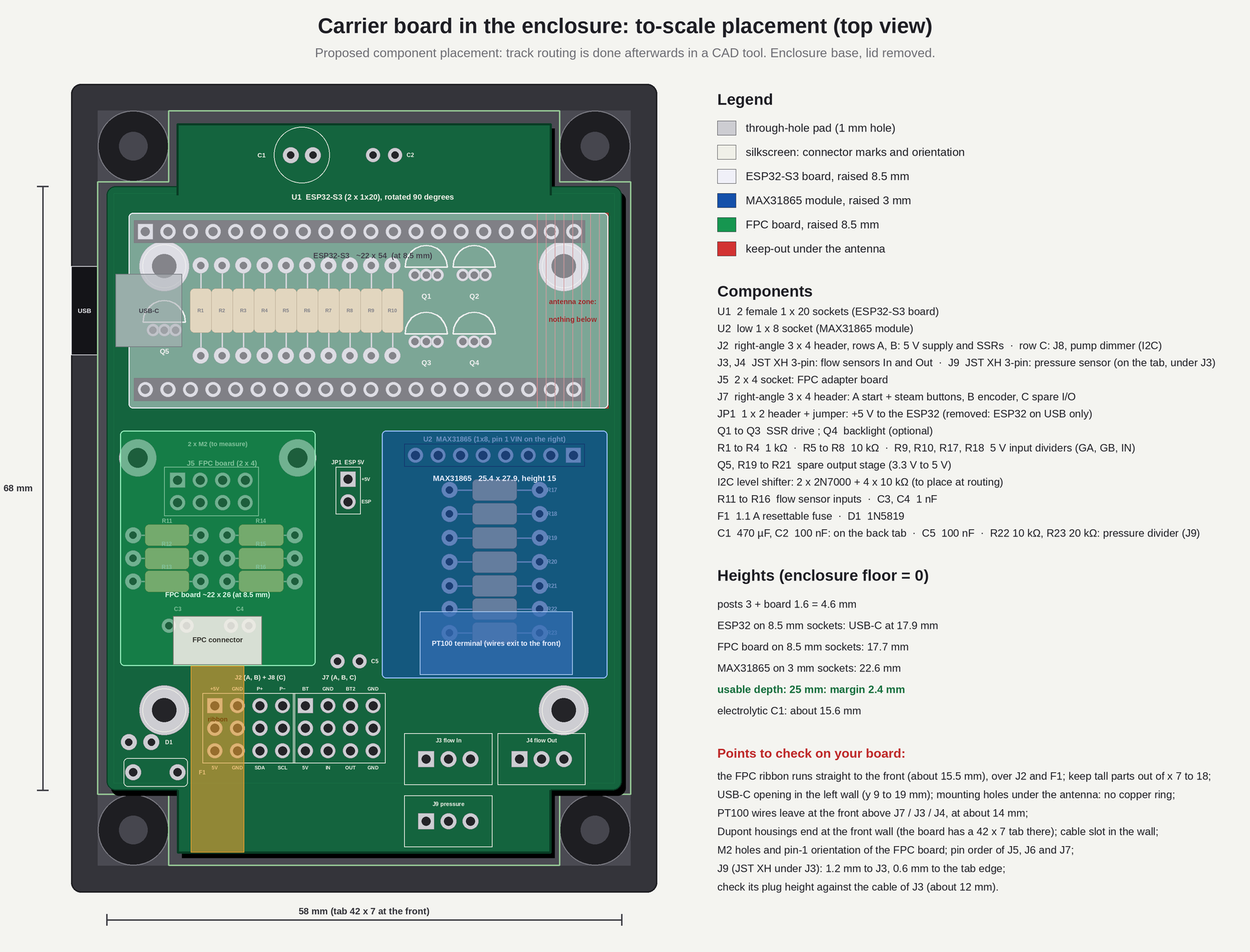
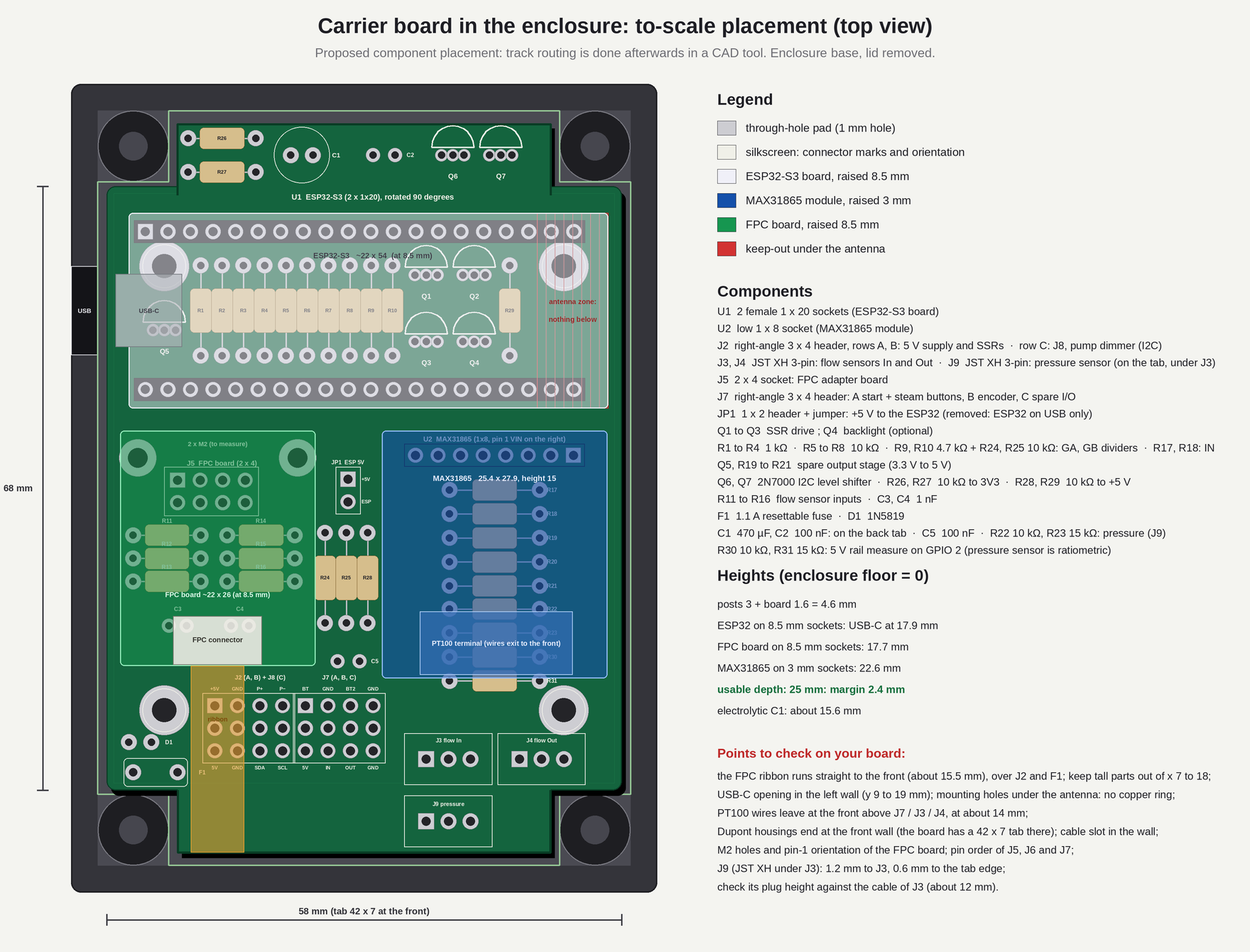
Review fixes: GA/GB divider resistors R24/R25, I2C shifter placed (Q6/Q7, R26-R29), pressure divider 10k/15k, 5 V rail measure on GPIO 2 (R30/R31), J2 marking
Claude-Session: https://claude.ai/code/session_012AnZeUFZeKvHXGUDRfJG7Q

diff --git a/tools/board_schematic.py b/tools/board_schematic.py
@@ -47,7 +47,7 @@ T(x0 + 370, 196, "row A: 5 V supply + pump SSR (ribbon 1)", F(14, True), RED, 'l
 T(x0 + 370, 242, "row B: boiler SSR + valve SSR (ribbon 2)", F(14, True), ORG, 'lm')
 T(x0 + 370, 288, "row C: J8 pump dimmer, RobotDyn (I2C)", F(14, True), VIO, 'lm')
 T(x0 + 370, 312, "a 2 x 4 housing can be plugged 180 degrees the wrong way:", F(13), GRY, 'lm')
-T(x0 + 370, 330, "mark it, or key the header", F(13), GRY, 'lm')
+T(x0 + 370, 330, "mark it (paint dot on +5 V): no keyed header on a 3-row strip", F(13), GRY, 'lm')
 
 head(60, 366, "J7: right-angle 3 x 4 male header")
 j7a = [("button", (90, 90, 96)), ("GND", DK), ("steam", (90, 90, 96)), ("GND", DK)]
@@ -95,7 +95,7 @@ gx = 860
 T(gx, 118, "ESP32-S3: pins used", F(22, True), INK, 'lm')
 rows = [("5V", "+5 V via JP1 (after diode and fuse)", RED), ("3V3", "display, I2C pull-ups (3.3 V side)", RED),
         ("GPIO 17", "pump SSR drive", BRN), ("GPIO 18", "boiler SSR drive", ORG), ("GPIO 21", "valve SSR drive", YEL),
-        ("GPIO 15", "flow In", BLU), ("GPIO 16", "flow Out", BLU), ("GPIO 1", "pressure sensor (ADC)", BLU),
+        ("GPIO 15", "flow In", BLU), ("GPIO 16", "flow Out", BLU), ("GPIO 1", "pressure sensor (ADC)", BLU), ("GPIO 2", "5 V rail measure (ADC)", RED),
         ("GPIO 4 / 5", "encoder A / B", GRN), ("GPIO 6 / 41", "start / steam buttons", (90, 90, 96)),
         ("GPIO 47 / 48", "dimmer I2C: SDA / SCL", VIO),
         ("GPIO 11 / 12 / 13", "SPI: MOSI / SCK / MISO", VIO), ("GPIO 10", "display CS", VIO), ("GPIO 9 / 8", "display DC / RST", VIO),
@@ -105,7 +105,7 @@ for i, (a, b, col) in enumerate(rows):
     RR(gx, y, gx + 180, y + 28, 5, fill=col, outline=(20, 20, 24), width=1)
     T(gx + 90, y + 14, a, F(14, True), (255, 255, 255))
     T(gx + 192, y + 14, b, F(15), INK, 'lm')
-T(gx, 786, "Avoided: 0, 3, 45, 46 (strapping), 19 and 20 (USB), 35 to 37 (PSRAM).", F(15), GRY, 'lm')
+T(gx, 806, "Avoided: 0, 3, 45, 46 (strapping), 19 and 20 (USB), 35 to 37 (PSRAM).", F(15), GRY, 'lm')
 
 # ================================================================ 2b. input circuits (chains)
 def box(x, y, w, h, label, fill=(250, 250, 240), col=INK, size=12):
@@ -125,11 +125,13 @@ def chain(x, y, title, src, res, end, shunts, col):
     for sx, lab in shunts:
         L([(x + sx, y), (x + sx, y)], col, 2)
         shunt(x + sx, y, lab)
-cy = 850
+cy = 866
 chain(gx, cy, "Encoder GA, GB, spare IN 38 (x3): 5 V to 3.3 V", "module out", "4.7 k", "GPIO", [(270, "10 k")], GRN)
-chain(gx, cy + 120, "Pressure input: 4.5 V to 3.0 V", "sensor", "10 k", "GPIO 1", [(250, "20 k"), (320, "100 nF")], BLU)
-T(gx, cy + 262, "Dimmer I2C (5 V module): 2 x 2N7000 level shifter, 10 k pull-ups to 3V3 and to +5 V", F(14, True), VIO, 'lm')
-T(gx, cy + 286, "(SDA = GPIO 47, SCL = GPIO 48, 100 kHz; the module ships in UART mode: switch it to I2C once)", F(13), GRY, 'lm')
+chain(gx, cy + 120, "Pressure input: 4.5 V to 2.7 V", "sensor", "10 k", "GPIO 1", [(250, "15 k"), (320, "100 nF")], BLU)
+chain(gx, cy + 240, "5 V rail measure (same ratio: pressure = signal / rail)", "+5 V rail", "10 k", "GPIO 2", [(250, "15 k")], RED)
+T(gx, cy + 352, "Dimmer I2C: Q6, Q7 2N7000 level shifter", F(14, True), VIO, 'lm')
+T(gx, cy + 374, "10 k pull-ups to 3V3 and to +5 V; SDA 47, SCL 48, 100 kHz", F(13), GRY, 'lm')
+T(gx, cy + 394, "ships in UART mode: switch it to I2C once", F(13), GRY, 'lm')
 
 # ================================================================ 3. circuits
 cx0 = 1370
@@ -168,7 +170,7 @@ L([(cx0 - 20, 500), (cx0 + 20, 500)], BRN, 3); T(cx0 - 28, 500, "GPIO", F(12, Tr
 L([(cx0 + 100, 500), (cx0 + 100, 540)], INK, 2)
 RR(cx0 + 88, 540, cx0 + 112, 575, 3, fill=(250, 250, 240), outline=INK, width=2); T(cx0 + 100, 557, "10k", F(11, True))
 L([(cx0 + 100, 575), (cx0 + 100, 590)], INK, 2); T(cx0 + 100, 604, "GND", F(12, True))
-T(cx0 + 20, 640, "2N2222A (TO-92): the SSR input receives almost the full 5 V", F(13), GRY, 'lm')
+T(cx0 + 20, 640, "2N2222A (TO-92): the SSR input receives about 4.4 V", F(13), GRY, 'lm')
 
 # flow input
 T(cx0, 700, "Flow sensor input (x2)", F(17, True), BLU, 'lm')
@@ -209,7 +211,7 @@ notes = [
     "JP1: fitted, the ESP32 takes its 5 V from the board; removed, from its USB port only (never fit it with USB plugged).",
     "The three voltage levels: +5 V board (after fuse and diode), 3.3 V from the ESP32-S3 board, common GND.",
     "The display module has its own backlight transistor: BLK is driven directly by GPIO 14 (stage Q4 optional).",
-    "No regulator on the board: the ESP32-S3 provides the 3.3 V, which now only feeds the display and the I2C pull-ups.",
+    "No regulator on the board: the 3.3 V (display, I2C pull-ups) comes from the ESP32-S3.",
     "The pump dimmer stays off the board on the mains side: only its 4-wire I2C cable comes to J8.",
     "All parts are through-hole (TO-92, axial resistors, radial capacitors, DO-41): ordinary soldering iron.",
     "On the board: a ground plane, no copper under the ESP32 antenna, 4 mounting holes (45 x 50 mm).",

diff --git a/tools/board_placement.py b/tools/board_placement.py
@@ -128,15 +128,21 @@ for i, name in enumerate(["R1", "R2", "R3", "R4", "R5", "R6", "R7", "R8", "R9", 
 # Q1..Q4: TO-92 bodies are 4.8 mm wide, so two rows of two (pitch 5.4 mm), clear of R10 and of the antenna zone
 for name, (qx, qy) in zip(["Q1", "Q2", "Q3", "Q4"], [(36.0, 10.0), (41.4, 10.0), (36.0, 17.5), (41.4, 17.5)]):
     to92(qx, qy, name)
+axial_v(45.4, 14.0, label="R29")                                # I2C pull-up to +5 V (SCL side), right of Q2 / Q4, clear of the antenna zone
 # spare I/O conditioning, flat resistors under the MAX31865 (3 mm clearance): R17 4.7 k + R18 10 k (input divider), R19 1 k base, R20 4.7 k pull-up to 5 V, R21 10 k base to GND
 for i, name in enumerate(["R17", "R18", "R19", "R20", "R21"]):
     axial(43.7, 34.2 + i * 2.7, pitch=10.16, label=None)
     text(d, X(49.6), Y(34.2 + i * 2.7), name, 8, SILK, True, 'lm')
 
-# pressure divider (J9 -> GPIO 1): R22 10 k (series) and R23 20 k (to GND) flat under the MAX31865, just below the spare-I/O resistors
+# pressure divider (J9 -> GPIO 1): R22 10 k (series) and R23 15 k (to GND) flat under the MAX31865, just below the spare-I/O resistors
 for i, name in enumerate(["R22", "R23"]):
     axial(43.7, 47.6 + i * 2.7, pitch=10.16, label=None)
     text(d, X(49.6), Y(47.6 + i * 2.7), name, 8, SILK, True, 'lm')
+
+# 5 V rail measure (GPIO 2), same 10 k / 15 k ratio as the pressure divider: R30 (series) and R31 (to GND), below R23
+for i, name in enumerate(["R30", "R31"]):
+    axial(43.7, 53.0 + i * 2.7, pitch=10.16, label=None)
+    text(d, X(49.6), Y(53.0 + i * 2.7), name, 8, SILK, True, 'lm')
 
 # keep-out under the antenna (right end of the ESP32 board)
 for k in range(0, 9):
@@ -207,8 +213,16 @@ tpad(2.5, 62.6, ring=1.8, drill=0.8); tpad(5.04, 62.6, ring=1.8, drill=0.8)
 text(d, X(6.6), Y(62.6), "D1", 8, SILK, True, 'lm')
 # C1 470 uF (radial 6.3 mm) and C2 100 nF, on the back tab (y -7 to 0), behind the ESP32
 circ(d, X(22.0), Y(-3.5), 3.15 * K, fill=None, outline=SILK + (255,), width=2)
-tpad(20.75, -3.5, ring=1.8, drill=0.8); tpad(23.25, -3.5, ring=1.8, drill=0.8); text(d, X(17.9), Y(-3.5), "C1", 9, SILK, True, 'rm')
+tpad(20.75, -3.5, ring=1.8, drill=0.8); tpad(23.25, -3.5, ring=1.8, drill=0.8); text(d, X(25.4), Y(-3.5), "C1", 9, SILK, True, 'lm')
 tpad(30.0, -3.5, ring=1.6, drill=0.8); tpad(32.5, -3.5, ring=1.6, drill=0.8); text(d, X(33.8), Y(-3.5), "C2", 8, SILK, True, 'lm')
+# corridor, below JP1: R24, R25 (10 k, GA / GB dividers to GND) and R28 (I2C pull-up to +5 V, SDA side), vertical
+for i, name in enumerate(["R24", "R25", "R28"]):
+    axial_v(24.6 + i * 2.4, 44.1, label=name)
+# back tab: I2C level shifter, Q6 / Q7 2N7000 (SDA / SCL) and R26 / R27 (10 k pull-ups to 3V3), left of C1
+for i, name in enumerate(["R26", "R27"]):
+    axial(13.0, -5.4 + i * 3.8, pitch=7.62, label=None)
+    text(d, X(13.0), Y(-5.4 + i * 3.8), name, 7, INK, True)
+to92(39.0, -3.5, "Q6"); to92(44.4, -3.5, "Q7")
 # C5 100 nF (pressure filter, taller than 3 mm so not under the MAX31865): in the corridor, below JP1
 tpad(26.0, 53.5, ring=1.6, drill=0.8); tpad(28.5, 53.5, ring=1.6, drill=0.8); text(d, X(29.8), Y(53.5), "C5", 8, SILK, True, 'lm')
 # JST XH x2: vertical headers, pins along x, the plugs come out upwards: no keep-out towards the front, away from the ribbon path (x 7 to 18)
@@ -288,12 +302,13 @@ comp = [
     "J7  right-angle 3 x 4 header: A start + steam buttons, B encoder, C spare I/O",
     "JP1  1 x 2 header + jumper: +5 V to the ESP32 (removed: ESP32 on USB only)",
     "Q1 to Q3  SSR drive ; Q4  backlight (optional)",
-    "R1 to R4  1 kΩ  ·  R5 to R8  10 kΩ  ·  R9, R10, R17, R18  5 V input dividers (GA, GB, IN)",
+    "R1 to R4  1 kΩ  ·  R5 to R8  10 kΩ  ·  R9, R10 4.7 kΩ + R24, R25 10 kΩ: GA, GB dividers  ·  R17, R18: IN",
     "Q5, R19 to R21  spare output stage (3.3 V to 5 V)",
-    "I2C level shifter: 2 x 2N7000 + 4 x 10 kΩ (to place at routing)",
+    "Q6, Q7  2N7000 I2C level shifter  ·  R26, R27  10 kΩ to 3V3  ·  R28, R29  10 kΩ to +5 V",
     "R11 to R16  flow sensor inputs  ·  C3, C4  1 nF",
     "F1  1.1 A resettable fuse  ·  D1  1N5819",
-    "C1  470 µF, C2  100 nF: on the back tab  ·  C5  100 nF  ·  R22 10 kΩ, R23 20 kΩ: pressure divider (J9)",
+    "C1  470 µF, C2  100 nF: on the back tab  ·  C5  100 nF  ·  R22 10 kΩ, R23 15 kΩ: pressure (J9)",
+    "R30 10 kΩ, R31 15 kΩ: 5 V rail measure on GPIO 2 (pressure sensor is ratiometric)",
 ]
 for i, t in enumerate(comp):
     text(d, lx, 438 + i * 24, t, 15, INK, False, 'lm')

diff --git a/tools/enclosure_overview.py b/tools/enclosure_overview.py
@@ -169,7 +169,9 @@ cuboid(CX0 + 22.4 - 1.27 + 0.15, CY0 + 65.6, top + 0.1, 10.0, 8.6, 2.3, (225, 22
 # polyfuse, standing diode, electrolytic, 100 nF, and the two JST XH (vertical headers with their plugs)
 cuboid(CX0 + 1.9, CY0 + 64.4, top, 7.2, 3.2, 11.0, (232, 200, 60))
 cuboid(CX0 + 1.2, CY0 + 61.2, top, 2.7, 2.7, 5.2, BLACK)
-cyl(CX0 + 22.0, CY0 - 3.5, 3.15, top, 12.0, (30, 40, 90))                                # 470 uF electrolytic
+cyl(CX0 + 22.0, CY0 - 3.5, 3.15, top, 12.0, (30, 40, 90))
+for qx in (39.0, 44.4):                                                                   # Q6 / Q7, 2N7000 (I2C level shifter), back tab
+    cuboid(CX0 + qx - 2.4, CY0 - 3.5 - 1.9, top, 4.8, 3.8, 5.0, (25, 25, 28))                                # 470 uF electrolytic
 cuboid(CX0 + 29.25, CY0 - 4.3, top, 4.0, 1.6, 4.2, (200, 120, 40))                        # 100 nF (back tab)
 for k in range(2):
     xb = CX0 + 38.5 + k * 10.5 - 4.95

diff --git a/docs/carrier_spec.md b/docs/carrier_spec.md
@@ -5,13 +5,13 @@ All **through-hole** parts (no SMD soldering). Related files: `images/board_plac
 ## Dimensions and mounting
 - Enclosure interior (measured): **60 mm wide x 85 mm long**. The four big posts are round, **8 mm in diameter** (8 x 8 mm footprint), in the corners. The small posts (3 mm high) are at **45 x 50 mm**, centred.
 - The posts leave a plus-shaped usable area: **60 x 69 mm** between the posts along the long sides (y from 8 to 77) and **44 mm wide over the full 85 mm length** between the end posts.
-- Board: **58 x 68 mm main body** (0.5 to 1 mm of margin all round) **plus a 42 x 7 mm tab on the cable (front) side and a 42 x 7 mm tab at the back, behind the ESP32** (x 8 to 50), so the board is 82 mm long at the tabs; two layers, ground plane. The tab lets the Dupont housings of J2 / J7 and the JST XH plugs sit on the board up to the front wall; the back tab holds C1 (470 µF, x 22, y −3.5) and C2 (100 nF, x 31, y −3.5), which frees the central corridor; keep it clear of the antenna zone (x 48.5 and beyond).
+- Board: **58 x 68 mm main body** (0.5 to 1 mm of margin all round) **plus a 42 x 7 mm tab on the cable (front) side and a 42 x 7 mm tab at the back, behind the ESP32** (x 8 to 50), so the board is 82 mm long at the tabs; two layers, ground plane. The tab lets the Dupont housings of J2 / J7 and the JST XH plugs sit on the board up to the front wall; the back tab holds C1 (470 µF, x 22, y −3.5), C2 (100 nF, x 31, y −3.5), the I2C level shifter Q6 / Q7 (2N7000, x 39 and 44.4) and its 3.3 V pull-ups R26 / R27 (left of C1), which frees the central corridor; keep it clear of the antenna zone (x 48.5 and beyond).
 - 4 mounting holes on the **3 mm** small posts, **45 x 50 mm** spacing, centred in the interior (board coordinates (6.5, 9), (51.5, 9), (6.5, 59), (51.5, 59)).
 - Usable depth **25 mm**: posts 3 + board 1.6 = 4.6 mm; ESP32 on 8.5 mm sockets (USB-C at 17.9 mm); FPC adapter board on 8.5 mm sockets (17.7 mm); MAX31865 on low 3 mm sockets (22.6 mm, 2.4 mm margin).
 - **ESP32-S3 rotated 90 degrees** (long side across the board, at the back, y 3 to 25 mm): **USB-C towards the left wall**, with an opening in that wall at y 9 to 19 mm (the connector is then far from the 8 mm corner posts). The antenna end is on the right (x 48.5 to 56.5 mm).
 - **Under the ESP32 (between the two socket rows, 8.5 mm clearance):** vertical axial resistors R1 to R10, then Q1 to Q4 on the right, in two rows of two (TO-92 bodies are 4.8 mm wide); Q5 (spare output) at the left, next to the USB end. The two small standoffs at the back (6.5, 9) and (51.5, 9) are under the ESP32; the one on the right is under the antenna, so use a **non-plated hole with no copper ring** there.
-- **Connector rows:** J8 is the lowest row of the J2 header; J7 is also a 3 x 4 right-angle strip (row A: start and steam buttons, row B: encoder, row C: spare I/O); each row has its own Dupont housing, rows are 2.54 mm apart vertically, the housings are not keyed: mind the order. J8 and J9 both have their plug and cable. The corridor between the FPC board and the MAX31865 holds JP1 and C5.
-- **Below the ESP32, side by side:** the FPC adapter board on the **left** (x 1.5 to 23.5 mm, connector towards the front, flow-input parts R11 to R16 and C3, C4 under it), the MAX31865 on the **right** (x 31 to 56.4 mm, rotated 180 degrees: header on its rear edge, pin 1 VIN on the right, PT100 terminal block facing the front), and a corridor between them (x 23.5 to 31 mm) holding JP1 and C5.
+- **Connector rows:** J8 is the lowest row of the J2 header; J7 is also a 3 x 4 right-angle strip (row A: start and steam buttons, row B: encoder, row C: spare I/O); each row has its own Dupont housing, rows are 2.54 mm apart vertically, the housings are not keyed: mind the order. J8 and J9 both have their plug and cable. The corridor between the FPC board and the MAX31865 holds JP1, R24 / R25 (GA / GB dividers to GND), R28 (I2C pull-up to +5 V) and C5; R29 (the other +5 V pull-up) stands under the ESP32 right of Q2 / Q4.
+- **Below the ESP32, side by side:** the FPC adapter board on the **left** (x 1.5 to 23.5 mm, connector towards the front, flow-input parts R11 to R16 and C3, C4 under it), the MAX31865 on the **right** (x 31 to 56.4 mm, rotated 180 degrees: header on its rear edge, pin 1 VIN on the right, PT100 terminal block facing the front), and a corridor between them (x 23.5 to 31 mm) holding JP1, R24, R25, R28 and C5.
 - **Front connector row:** right-angle headers with their Dupont housings need about **9 mm in front of the pads** (keep-out, nothing else there); J2 and J7 are on the 42 x 7 mm tab, the vertical JST XH J3 and J4 at the front right, F1 and D1 in the front-left corner. A cable slot is needed in the front wall (housings end about 1 mm from it).
 - **All cables leave through the front** (J2, J7, J8, J3, J4, J9, the PT100 wires and the display ribbon). Only the USB-C cable leaves through the left wall.
 - **Display ribbon:** the FPC adapter board is rotated so that its connector faces the front: the flat ribbon (about 6 mm wide, at about 15.5 mm) runs **straight to the front** between x 7 and 18 mm, above J2's housings (10.5 mm) and F1; no tall part (JST XH plugs reach about 16 mm) may sit in that column. Nothing crosses the MAX31865 any more.
@@ -38,7 +38,7 @@ All **through-hole** parts (no SMD soldering). Related files: `images/board_plac
 | A | +5 V | GND | pump + | pump − |
 | B | boiler + | boiler − | valve + | valve − |
 
-**One 2 x 4 Dupont housing**, two ribbons of 4 wires (one per row): ribbon 1 = 5 V supply and pump SSR, ribbon 2 = boiler SSR and valve SSR. Warning: an unkeyed 2 x 4 housing can be plugged 180 degrees the wrong way round (+5 V would land on the valve SSR "−" input and so on). Use a **keyed (shrouded) 2 x 4 IDC-style header** with its notch, or at least mark the housing and the header.
+**One 2 x 4 Dupont housing**, two ribbons of 4 wires (one per row): ribbon 1 = 5 V supply and pump SSR, ribbon 2 = boiler SSR and valve SSR. Warning: an unkeyed 2 x 4 housing can be plugged 180 degrees the wrong way round (+5 V would land on the valve SSR "−" input and so on). A shrouded (keyed) header is not possible here, because J2 shares a 3-row strip with J8: **mark the housing and the header** (a paint dot on pin A1, +5 V, on both, and the arrow on the silkscreen). If you want a real mechanical key later, move the supply and the SSRs to JST XH connectors.
 
 ### J7 (3 x 4 right-angle header: three stacked rows of Dupont housings)
 | | 1 | 2 | 3 | 4 |
@@ -56,14 +56,14 @@ Housings: row A = two 2-pin (start button, steam-mode button: dry contacts to GN
 The two GPIO numbers (38 and 39) are provisional free GPIOs of the ESP32-S3 chip (neither strapping, PSRAM, flash nor USB); check them against the real pin table of your board, which does not necessarily expose every GPIO of the chip.
 
 ### 5 V inputs protection (encoder)
-The ESP32-S3 only accepts 3.3 V. Since the encoder module is powered from 5 V, its outputs (A, B, button) can reach 5 V if the module has pull-ups to 5 V. GA, GB and the spare GPIO 38 therefore each go through a divider: 4.7 kΩ in series to the GPIO, then 10 kΩ from the GPIO to GND (5 V becomes 3.4 V). The start button (J7 row A, "button") is a dry contact to GND: it needs no divider, only the ESP32 internal pull-up; bounce is handled in the firmware (no capacitor). **To check:** if your module is a bare encoder without pull-up resistors, 10 kΩ pull-ups to 5 V are needed (provide optional footprints).
+The ESP32-S3 only accepts 3.3 V. Since the encoder module is powered from 5 V, its outputs (A, B, button) can reach 5 V if the module has pull-ups to 5 V. GA, GB and the spare GPIO 38 therefore each go through a divider: 4.7 kΩ in series to the GPIO, then 10 kΩ from the GPIO to GND (5 V becomes 3.4 V): R9 / R24 for GA, R10 / R25 for GB, R17 / R18 for IN. The start button (J7 row A, "button") is a dry contact to GND: it needs no divider, only the ESP32 internal pull-up; bounce is handled in the firmware (no capacitor). **To check:** if your module is a bare encoder without pull-up resistors, 10 kΩ pull-ups to 5 V are needed (provide optional footprints).
 
 ### J8 (pump dimmer, row C of the J2 header, 4 pins in the module's order)
 | 1 | 2 | 3 | 4 |
 |---|---|---|---|
 | VCC (+5 V) | GND | SDA | SCL |
 
-RobotDyn "4 A Dimmer, DimmerLink UART / I2C interface" module (53 x 16 mm): no zero-cross pin and no PWM, everything goes through the bus. Reference code and documentation: https://github.com/robotdyn-dimmer/DimmerLink. Powered from **+5 V**. The module accepts 1.8 / 3.3 / 5 V but its logic levels follow VCC: at 5 V it expects roughly 3.5 V for a high and may drive its lines up to 5 V, which the ESP32-S3 does not tolerate. SDA and SCL therefore go through a **bidirectional level shifter**, one 2N7000 per line (gate on +3.3 V, source on the ESP32 side with a 10 kΩ pull-up to +3.3 V, drain on the module side with a 10 kΩ pull-up to +5 V). 100 nF decoupling near the module. *Simpler alternative:* keep VCC at 3.3 V and drop the shifter. **Selected mode: I2C**, GPIO 47 = SDA, GPIO 48 = SCL (**provisional**).
+RobotDyn "4 A Dimmer, DimmerLink UART / I2C interface" module (53 x 16 mm): no zero-cross pin and no PWM, everything goes through the bus. Reference code and documentation: https://github.com/robotdyn-dimmer/DimmerLink. Powered from **+5 V**. The module accepts 1.8 / 3.3 / 5 V but its logic levels follow VCC: at 5 V it expects roughly 3.5 V for a high and may drive its lines up to 5 V, which the ESP32-S3 does not tolerate. SDA and SCL therefore go through a **bidirectional level shifter**, one 2N7000 per line (Q6 = SDA, Q7 = SCL; gate on +3.3 V, source on the ESP32 side with a 10 kΩ pull-up to +3.3 V (R26, R27), drain on the module side with a 10 kΩ pull-up to +5 V (R28, R29)). 100 nF decoupling near the module. *Simpler alternative:* keep VCC at 3.3 V and drop the shifter. **Selected mode: I2C**, GPIO 47 = SDA, GPIO 48 = SCL (**provisional**).
 
 **Important: the module ships in UART mode.** It must be switched to I2C once, by sending the UART frame `02 5B` (SWITCH_I2C) to it; the same two pins are then SDA / SCL. Plan a one-time switch (temporary UART sketch on GPIO 47 / 48, or a USB-serial adapter on J8) before using I2C. Going back to UART is done by writing `0x03` to the COMMAND register.
 
@@ -89,7 +89,9 @@ Same order as J3 / J4:
 
 The footprint (9.9 x 5.8 mm, pins along x, plug upwards, real pitch 2.5 mm) is centred at x 38.5, y 71.5 mm (J3 at x 38.5 and J4 at x 49, both at y 64.5), inside the 42 x 7 mm tab (y 68 to 75): **only 1.2 mm to J3 and 0.6 mm to the tab edge**, and 1.5 mm from the front wall. Check the plug heights against the cable of J3 (about 12 mm); one more 3-wire cable (4.5 mm) goes through the front slot.
 
-G1/4 sensor, 0 to 12 bar, 0.5 to 4.5 V output. The signal goes through a divider, 10 kΩ (series) / 20 kΩ (to GND), which brings 4.5 V down to 3.0 V, plus 100 nF on GPIO 1 (ADC1, 11 dB attenuation); on the board: R22 (10 kΩ) and R23 (20 kΩ) flat under the MAX31865 below R21, C5 (100 nF) in the corridor, below JP1. Pressure in bar = (sensor voltage − 0.5) x 3. Average the readings (the ESP32 ADC is noisy and not very linear at the ends). The pump can reach about 19 bar at zero flow, above the sensor's 12 bar range: make sure the machine's pressure relief valve limits the pressure at the sensor tap (and check the sensor's overpressure rating).
+G1/4 sensor, 0 to 12 bar, 0.5 to 4.5 V output. The signal goes through a divider, 10 kΩ (series) / **15 kΩ** (to GND), which brings 4.5 V down to 2.7 V (margin below the top of the ADC range, about 3.1 V, where it is least linear), plus 100 nF on GPIO 1 (ADC1, 12 dB attenuation); on the board: R22 (10 kΩ) and R23 (15 kΩ) flat under the MAX31865 below R21, C5 (100 nF) in the corridor, below JP1.
+
+**The sensor is ratiometric** (0.5 to 4.5 V = 10 to 90 % of its supply), and its supply is the board's +5 V rail, which sits at about 4.6 V after F1 and D1 and moves with the load. The rail is therefore measured on **GPIO 2** through the same 10 kΩ / 15 kΩ ratio (R30, R31, below R23), and the firmware uses the ratio of the two readings: ratio = ADC(GPIO 1) / ADC(GPIO 2); pressure in bar = (ratio − 0.1) / 0.8 x 12. This cancels the rail variations. Average the readings (the ESP32 ADC is noisy and not very linear at the ends). The pump can reach about 19 bar at zero flow, above the sensor's 12 bar range: make sure the machine's pressure relief valve limits the pressure at the sensor tap (and check the sensor's overpressure rating).
 
 ### J3 / J4 (JST XH 3-pin)
 1 = +5 V, 2 = signal, 3 = GND. The exact order comes from the sensor cable (often red / yellow / black).
@@ -111,10 +113,10 @@ SDA and SCL are the SPI data and clock (write-only, the display has no MISO); th
 VIN (**+5 V**: the Adafruit board has its own 3.3 V regulator), 3Vo (unused), GND, CLK (GPIO 12), SDO (GPIO 13), SDI (GPIO 11), CS (GPIO 7), RDY (unused). This is the Adafruit order (VIN, 3Vo, GND, CLK, SDO, SDI, CS, RDY). **To measure before routing:** with VIN at 5 V, check the high level of SDO; if it is 5 V (not 3.3 V), put the same 4.7 kΩ / 10 kΩ divider on GPIO 13 (a divider on a 3.3 V output would give only 2.2 V, too low).
 
 ## ESP32-S3 board (read on the photo)
-Silkscreen read on the photo, left column from the USB-C end: GND, 5V, G48, BOOT, 48, 47, 38, 39, 40, 21, GND, 18, 17, 16, 15, 41, 42, 45, 46. Right column: GND, 3V3, PWR, RST, 14, 13, 12, 11, 10, 09, 08, 07, GND, 06, 05, 04, 03, 02, 01. Every GPIO used in this design (1, 4, 5, 6, 7, 8, 9, 10, 11, 12, 13, 14, 15, 16, 17, 18, 21, 38, 39, 47, 48) is broken out on this board, and the strapping pins to avoid (0 = BOOT, 3, 45, 46) are the ones marked. Still free: 2 (right), 40, 41, 42 (left). To confirm by you: exact board size (the photo suggests about 22 x 54 mm plus about 1.5 mm of USB-C overhang), pin count per side (about 20), and row spacing.
+Silkscreen read on the photo, left column from the USB-C end: GND, 5V, G48, BOOT, 48, 47, 38, 39, 40, 21, GND, 18, 17, 16, 15, 41, 42, 45, 46. Right column: GND, 3V3, PWR, RST, 14, 13, 12, 11, 10, 09, 08, 07, GND, 06, 05, 04, 03, 02, 01. Every GPIO used in this design (1, 4, 5, 6, 7, 8, 9, 10, 11, 12, 13, 14, 15, 16, 17, 18, 21, 38, 39, 47, 48) is broken out on this board, and the strapping pins to avoid (0 = BOOT, 3, 45, 46) are the ones marked. Still free: 40, 42 (left). To confirm by you: exact board size (the photo suggests about 22 x 54 mm plus about 1.5 mm of USB-C overhang), pin count per side (about 20), and row spacing.
 
 ## ESP32-S3 pins
-5V, 3V3, GND; GPIO 17 (pump SSR), 18 (boiler SSR), 21 (valve SSR); 15 (flow In), 16 (flow Out); 4 / 5 (encoder); 6 (start button); 41 (steam button); 11 / 12 / 13 (SPI MOSI / SCK / MISO); 10 (display CS); 9 / 8 (display DC / RST); 14 (backlight); 7 (MAX31865 CS); 47 / 48 (dimmer, I2C SDA / SCL); 1 (pressure, ADC); 38 / 39 (spare IN / OUT, on J7). Avoided: 0, 3, 45, 46, 19, 20, 35 to 37 (not broken out on this board).
+5V, 3V3, GND; GPIO 17 (pump SSR), 18 (boiler SSR), 21 (valve SSR); 15 (flow In), 16 (flow Out); 4 / 5 (encoder); 6 (start button); 41 (steam button); 11 / 12 / 13 (SPI MOSI / SCK / MISO); 10 (display CS); 9 / 8 (display DC / RST); 14 (backlight); 7 (MAX31865 CS); 47 / 48 (dimmer, I2C SDA / SCL); 1 (pressure, ADC); 2 (5 V rail measure, ADC); 38 / 39 (spare IN / OUT, on J7). Avoided: 0, 3, 45, 46, 19, 20, 35 to 37 (not broken out on this board).
 
 ## Circuits
 - **Power:** supply **5.1 V, 2 A** (measured by you); after F1 and D1 the rail is about 4.6 to 4.7 V. J2 A1 (+5 V) → 1.1 A resettable fuse → 1N5819 diode (reverse protection) → +5 V rail (470 µF + 100 nF) → **JP1** → 5V pin of the ESP32. The 3.3 V comes from the ESP32 board. **JP1** (1 x 2 header + shunt jumper): **fitted = normal operation**, the ESP32 takes its 5 V from the external supply through the Dupont connector; **removed = the ESP32 is powered by its USB port only** (the rest of the board stays on the external supply). Never fit JP1 while a USB cable is plugged in: the two 5 V sources would be tied together (and the supply could back-feed the computer).
@@ -134,8 +136,8 @@ Silkscreen read on the photo, left column from the USB-C end: GND, 5V, G48, BOOT
 | 1 | 1 x 2 male header + shunt jumper (JP1) | 0.2 € |
 | 3 | JST XH 3-pin headers (J3, J4, J9) | 0.7 € |
 | 4 | 2N2222A transistors (3 SSRs + spare output; backlight stage optional) | 0.6 € |
-| 2 | 2N7000 MOSFETs (I2C level shifter) | 0.3 € |
-| ~20 | axial resistors (1 kΩ, 10 kΩ, 4.7 kΩ, 20 kΩ; to be recounted at routing) | 1 € |
+| 2 | 2N7000 MOSFETs (Q6, Q7: I2C level shifter) | 0.3 € |
+| 31 | axial resistors R1 to R31 (1 kΩ, 4.7 kΩ, 10 kΩ, 15 kΩ; R4 with Q4 optional) | 1.5 € |
 | 1 | 1.1 A resettable fuse (radial) | 0.5 € |
 | 1 | 1N5819 diode | 0.2 € |
 | 1 | 470 µF 10 V radial capacitor (105 °C); 2 x 100 nF (C2, C5); 2 x 1 nF (C3, C4) | 1 € |
